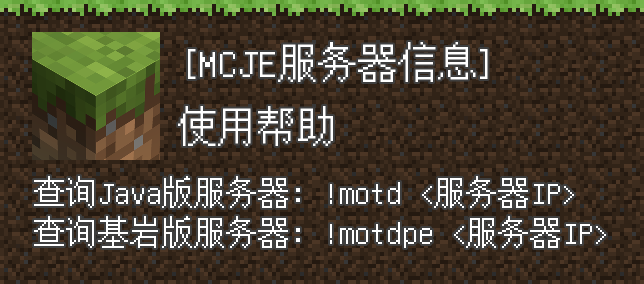
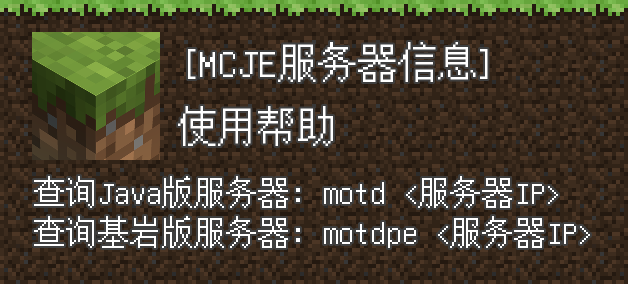
adjust

diff --git a/nonebot_plugin_picmcstat/draw.py b/nonebot_plugin_picmcstat/draw.py
@@ -8,7 +8,7 @@ from PIL.Image import Resampling
 from mcstatus import BedrockServer, JavaServer
 from mcstatus.bedrock_status import BedrockStatusResponse
 from mcstatus.pinger import PingResponse
-from nonebot import logger
+from nonebot import logger, get_driver
 from nonebot.adapters.onebot.v11 import MessageSegment
 from nonebot_plugin_imageutils import BuildImage, Text2Image
 
@@ -129,7 +129,10 @@ def format_extra(extra: str) -> Text2Image:
 
 
 def draw_help(svr_type: ServerType) -> BytesIO:
-    extra_txt = "查询Java版服务器: !motd <服务器IP>\n查询基岩版服务器: !motdpe <服务器IP>"
+    cmd_prefix_li = list(get_driver().config.command_start)
+    prefix = cmd_prefix_li[0] if cmd_prefix_li else ""
+
+    extra_txt = f"查询Java版服务器: {prefix}motd <服务器IP>\n查询基岩版服务器: {prefix}motdpe <服务器IP>"
     return build_img(get_header_by_svr_type(svr_type), "使用帮助", format_extra(extra_txt))
 
 

diff --git a/nonebot_plugin_picmcstat/util.py b/nonebot_plugin_picmcstat/util.py
@@ -2,7 +2,6 @@ import random
 from string import ascii_letters, digits, punctuation
 from typing import List, Union
 
-from mcstatus.pinger import PingResponse
 from .const import CODE_COLOR, STROKE_COLOR, STYLE_BBCODE
 
 RANDOM_CHAR_TEMPLATE = ascii_letters + digits + punctuation

diff --git a/nonebot_plugin_picmcstat/__main__.py b/nonebot_plugin_picmcstat/__main__.py
@@ -7,7 +7,7 @@ require("nonebot_plugin_imageutils")
 
 from .draw import ServerType, draw
 
-motd_handler = on_command("!motd", aliases={"！motd"})
+motd_handler = on_command("motd", aliases={"!motd", "！motd"})
 
 
 @motd_handler.handle()
